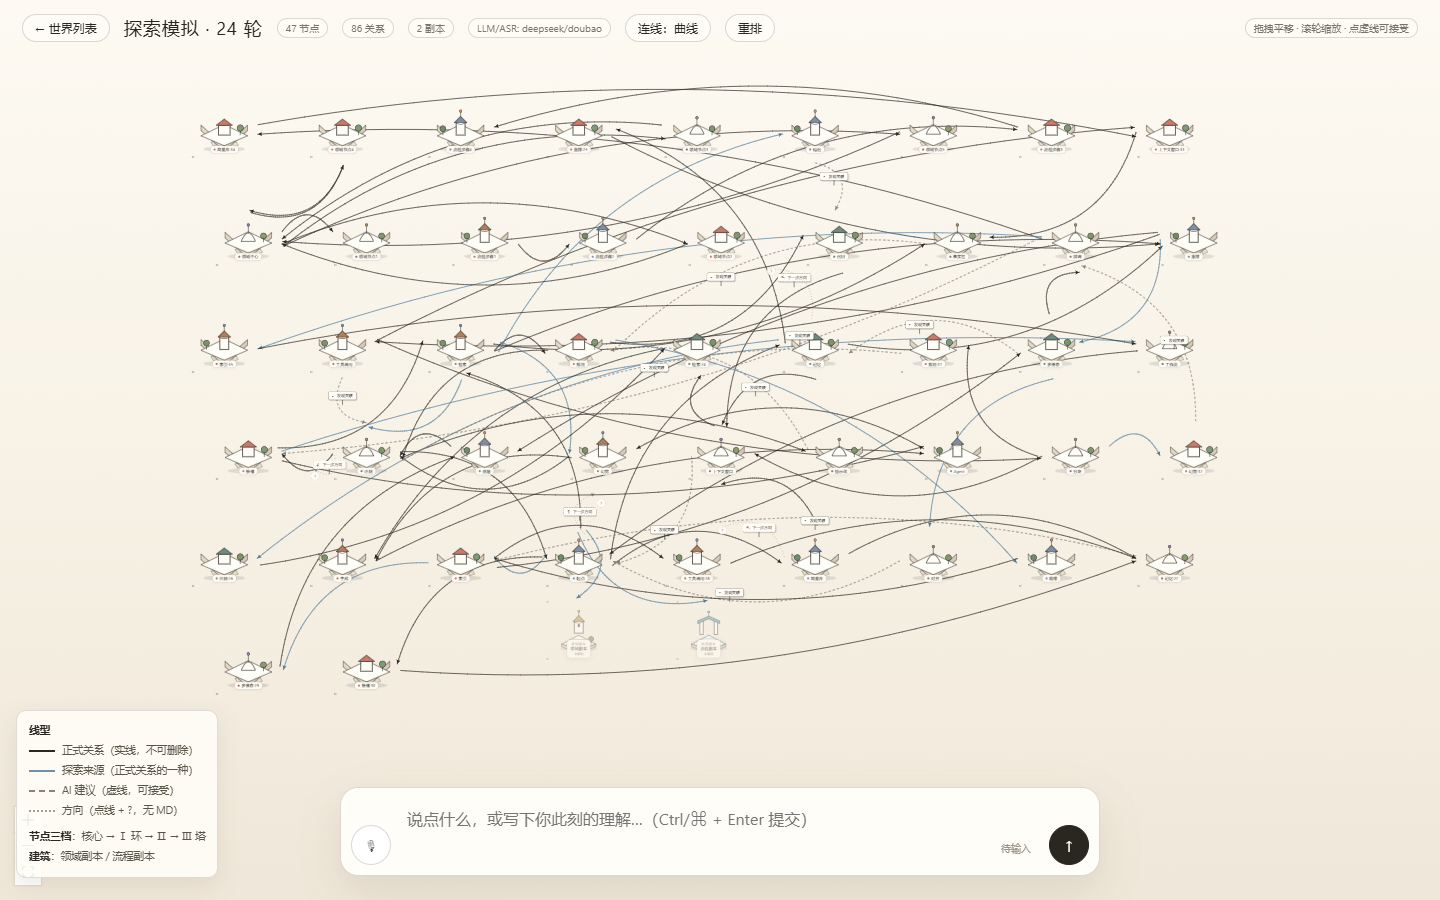
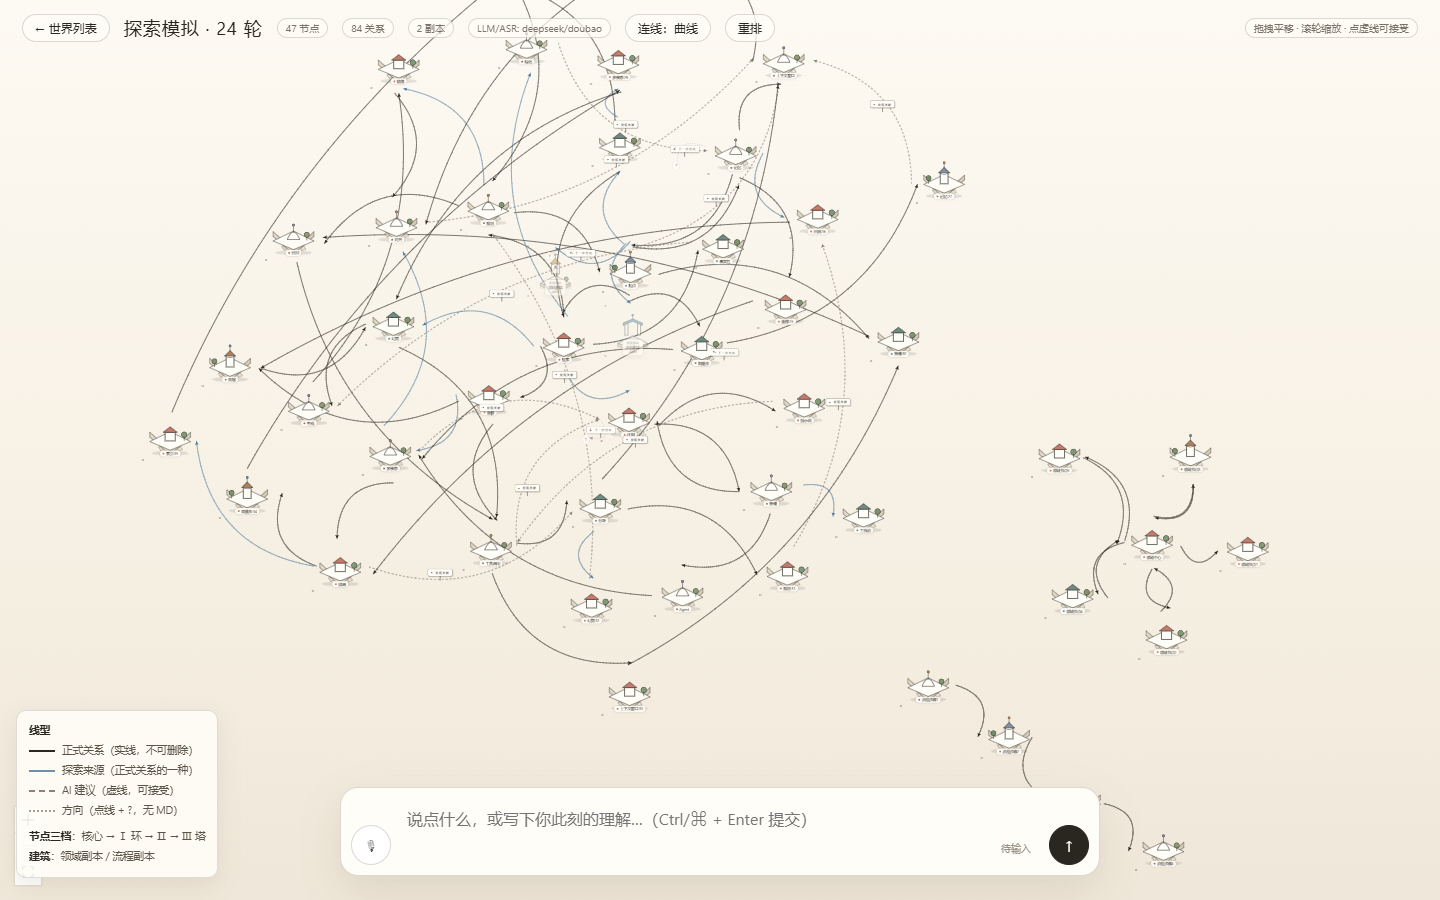
feat(placement): 增量式语义放置，替代全局重排/网格
- 新增 placement.ts：placeAround 在环上生成候选位置，按「避让已有节点 + 朝外生长 + 扇形分散」打分选位；旧节点不动
- 抽取接口改为每个新实体现场算位置（不再按固定角度/半径）
- 探索模拟改为增量生长：跨链接以两节点加权位置为锚；最后只做局部松弛
- 24 轮实测：47 节点 / 84 关系 / 0 重叠 / 2 副本，生长形态而非网格
- 全局 ELK 仍保留给「重排」按钮

diff --git a/server/src/explore.ts b/server/src/explore.ts
@@ -1,0 +1,134 @@
+import {
+  addEdge,
+  addNode,
+  createWorld,
+  getGraph,
+  listBuildings,
+  setNodePosition,
+} from "./db.js";
+import { placeAround, relax, type Placed } from "./placement.js";
+
+const VOCAB = [
+  "检索", "重排", "评测", "记忆", "工具调用", "多模态", "推理", "规划",
+  "幻觉", "上下文窗口", "向量库", "索引", "分块", "微调", "对齐", "蒸馏",
+  "Agent", "工作流", "提示词", "召回", "精排", "生成", "事实性", "延迟",
+];
+
+/**
+ * 模拟一次真实探索：
+ * - 每一轮拿一个"前沿节点"当焦点，生成 1~2 个新节点；
+ * - 新节点位置由 placeAround 现场判断（围绕焦点、朝外、避开已有节点）；
+ * - 新老节点位置都保留，不整体重排，最后只做局部松弛。
+ */
+export async function simulateExplore(
+  rounds: number,
+  detect: (worldId: string, focus: any, nodes: any[]) => void,
+) {
+  const world = createWorld(`探索模拟 · ${rounds} 轮`, "起点");
+  const start = getGraph(world.id).nodes[0];
+  const placed: Placed[] = [{ id: start.id, x: start.x, y: start.y }];
+  const frontier = [start.id];
+  const allIds = [start.id];
+  let vi = 0;
+
+  for (let r = 0; r < rounds; r++) {
+    const focusId = frontier.length ? frontier.shift()! : allIds[Math.floor(Math.random() * allIds.length)];
+    const focus = placed.find((p) => p.id === focusId)!;
+    const k = 1 + (r % 2);
+    for (let j = 0; j < k; j++) {
+      const name = VOCAB[vi % VOCAB.length] + (vi >= VOCAB.length ? `·${vi}` : "");
+      vi++;
+      const pos = placeAround(placed, focus, { preferAngle: (placed.length * 1.7) % (Math.PI * 2) });
+      const node = addNode(world.id, name, pos.x, pos.y);
+      placed.push({ id: node.id, x: pos.x, y: pos.y });
+      allIds.push(node.id);
+      addEdge(world.id, focusId, node.id, j === 0 ? "formal" : "source", "探索延伸");
+      frontier.push(node.id);
+
+      // 发现关联：连到一个已有节点，并把新节点往两者中间拉近
+      if (allIds.length > 4) {
+        const otherId = allIds[Math.floor(Math.random() * allIds.length)];
+        const other = placed.find((p) => p.id === otherId);
+        if (other && otherId !== node.id) {
+          addEdge(world.id, node.id, otherId, r % 3 === 0 ? "suggest" : "formal", "发现关联");
+          const mx = node.x * 0.65 + other.x * 0.35;
+          const my = node.y * 0.65 + other.y * 0.35;
+          const adjusted = placeAround(
+            placed.filter((p) => p.id !== node.id),
+            { id: node.id, x: mx, y: my },
+            { minGap: 220 },
+          );
+          node.x = adjusted.x;
+          node.y = adjusted.y;
+          const mine = placed.find((p) => p.id === node.id)!;
+          mine.x = adjusted.x;
+          mine.y = adjusted.y;
+        }
+      }
+    }
+    frontier.push(focusId);
+    if (r % 6 === 0) addEdge(world.id, focusId, focusId, "direction", "下一步可以探索什么？");
+  }
+
+  // 结构化：一条流程链 + 一个领域簇，验证副本生成
+  const chain: string[] = [];
+  const clusterCenter = placeAround(placed, { id: "cluster", x: 600, y: 900 }, { minGap: 240 });
+  for (let i = 0; i < 4; i++) {
+    const pos = i === 0
+      ? clusterCenter
+      : placeAround(placed, placed.find((p) => p.id === chain[i - 1])!, { minGap: 230 });
+    const n = addNode(world.id, `流程步骤${i + 1}`, pos.x, pos.y);
+    placed.push({ id: n.id, x: pos.x, y: pos.y });
+    chain.push(n.id);
+    if (i > 0) addEdge(world.id, chain[i - 1], n.id, "formal", "步骤");
+  }
+  const clusterAnchor = placeAround(placed, { id: "c2", x: 1200, y: 900 }, { minGap: 240 });
+  const center = addNode(world.id, "领域中心", clusterAnchor.x, clusterAnchor.y);
+  placed.push({ id: center.id, ...clusterAnchor });
+  for (let i = 0; i < 5; i++) {
+    const pos = placeAround(placed, { id: center.id, x: clusterAnchor.x, y: clusterAnchor.y }, { minGap: 225 });
+    const n = addNode(world.id, `领域节点${i + 1}`, pos.x, pos.y);
+    placed.push({ id: n.id, x: pos.x, y: pos.y });
+    addEdge(world.id, center.id, n.id, "formal", "属于");
+    if (i > 0) addEdge(world.id, n.id, center.id, "formal", "关联");
+  }
+
+  // 局部松弛：消除放置阶段的少量挤压，不整体重排
+  const relaxed = relax(placed, 215);
+  for (const p of relaxed) setNodePosition(p.id, p.x, p.y);
+
+  const graph = getGraph(world.id);
+  detect(world.id, graph.nodes[0], graph.nodes);
+
+  const W = 190, H = 170, SP = 1.28;
+  const nodes = getGraph(world.id).nodes;
+  let overlaps = 0;
+  let minGap = Infinity;
+  for (let i = 0; i < nodes.length; i++) {
+    for (let j = i + 1; j < nodes.length; j++) {
+      const dx = Math.abs(nodes[i].x - nodes[j].x) * SP;
+      const dy = Math.abs(nodes[i].y - nodes[j].y) * SP;
+      if (dx < W && dy < H) overlaps++;
+      minGap = Math.min(minGap, Math.max(dx - W, dy - H));
+    }
+  }
+  const buildings = listBuildings(world.id);
+  const extentX = Math.max(...nodes.map((n) => n.x)) - Math.min(...nodes.map((n) => n.x));
+  const extentY = Math.max(...nodes.map((n) => n.y)) - Math.min(...nodes.map((n) => n.y));
+
+  return {
+    ok: true,
+    world,
+    layoutEngine: "incremental",
+    stats: {
+      nodes: nodes.length,
+      edges: getGraph(world.id).edges.length,
+      rounds,
+      overlaps,
+      minGap: Number.isFinite(minGap) ? Math.round(minGap) : null,
+      extent: `${Math.round(extentX)}×${Math.round(extentY)}`,
+      buildings: buildings.length,
+      buildingKinds: buildings.map((b) => b.kind),
+    },
+  };
+}

diff --git a/server/src/placement.ts b/server/src/placement.ts
@@ -1,0 +1,94 @@
+import type { NodeRow } from "./db.js";
+
+export type Placed = { id: string; x: number; y: number };
+
+const GOLDEN = Math.PI * (3 - Math.sqrt(5));
+
+/**
+ * 增量式语义放置：新节点围绕"父节点"落在一条条环上，
+ * 候选位置按「不压已有节点 + 朝外生长 + 扇形分散」打分。
+ *
+ * 和全局重排的区别：老节点位置保持不动，地图是"长出来"的。
+ */
+export function placeAround(
+  existing: Placed[],
+  anchor: Placed,
+  opts: { minGap?: number; preferAngle?: number } = {},
+): { x: number; y: number } {
+  const minGap = opts.minGap ?? 235;
+  if (existing.length === 0) return { x: anchor.x + 300, y: anchor.y };
+
+  // 地图重心 → 用来判断"朝外"方向
+  const cx = existing.reduce((a, p) => a + p.x, 0) / existing.length;
+  const cy = existing.reduce((a, p) => a + p.y, 0) / existing.length;
+  let ox = anchor.x - cx;
+  let oy = anchor.y - cy;
+  const ol = Math.hypot(ox, oy);
+  if (ol < 1) {
+    const a = existing.length * GOLDEN;
+    ox = Math.cos(a);
+    oy = Math.sin(a);
+  } else {
+    ox /= ol;
+    oy /= ol;
+  }
+
+  const prefer = opts.preferAngle ?? 0;
+  let best: { x: number; y: number } | null = null;
+  let bestScore = -Infinity;
+
+  for (const radius of [250, 330, 420, 520, 640, 780]) {
+    for (let k = 0; k < 16; k++) {
+      const angle = prefer + k * (Math.PI / 8) + existing.length * 0.17;
+      const x = anchor.x + Math.cos(angle) * radius;
+      const y = anchor.y + Math.sin(angle) * radius;
+
+      // 到已有节点的最小空隙
+      let clearance = Infinity;
+      for (const p of existing) {
+        const d = Math.hypot(p.x - x, p.y - y);
+        clearance = Math.min(clearance, d - minGap);
+        if (clearance < -200) break;
+      }
+
+      // 朝外生长 + 与父节点方向有一定角度差（形成扇形而不是一条射线）
+      const outward = (Math.cos(angle) * ox + Math.sin(angle) * oy) * 120;
+      const spread = Math.abs(Math.cos(angle - prefer)) * 20;
+      const score = clearance * 3 + outward + spread + Math.random() * 12;
+
+      if (clearance >= 0 && score > bestScore) {
+        bestScore = score;
+        best = { x, y };
+      } else if (!best && score > bestScore) {
+        bestScore = score;
+        best = { x, y };
+      }
+    }
+    if (best && bestScore > 0) break;
+  }
+
+  return best ?? { x: anchor.x + 300, y: anchor.y };
+}
+
+/** 局部松弛：只在新节点附近消掉残留重叠，不整体重排 */
+export function relax(placed: Placed[], minGap = 215): Placed[] {
+  const out = placed.map((p) => ({ ...p }));
+  for (let iter = 0; iter < 12; iter++) {
+    for (let i = 0; i < out.length; i++) {
+      for (let j = i + 1; j < out.length; j++) {
+        const dx = out[j].x - out[i].x;
+        const dy = out[j].y - out[i].y;
+        const d = Math.hypot(dx, dy) || 1;
+        if (d >= minGap) continue;
+        const push = (minGap - d) / 2;
+        const ux = dx / d;
+        const uy = dy / d;
+        out[i].x -= ux * push;
+        out[i].y -= uy * push;
+        out[j].x += ux * push;
+        out[j].y += uy * push;
+      }
+    }
+  }
+  return out;
+}

diff --git a/server/src/index.ts b/server/src/index.ts
@@ -37,6 +37,8 @@ import { deepseekLLM } from "./providers/deepseek.js";
 import { doubaoASR } from "./providers/doubao.js";
 import { mockASR, mockLLM } from "./providers/mock.js";
 import { elkLayout, wfcLayout } from "./layout.js";
+import { placeAround } from "./placement.js";
+import { simulateExplore } from "./explore.js";
 
 seedDemoIfEmpty();
 
@@ -101,22 +103,27 @@ app.post("/api/worlds/:id/extract", async (req, res) => {
 
   const createdNodes: NodeRow[] = [];
   const createdEdges: unknown[] = [];
-  const baseAngle = graph.nodes.length * 0.9;
-  result.entities.forEach((ent, i) => {
+  // 增量放置：每个新实体围绕焦点节点现场算位置（避开已有节点、朝外生长）
+  const placed = graph.nodes.map((n) => ({ id: n.id, x: n.x, y: n.y }));
+  result.entities.forEach((ent) => {
     const name = ent.name.trim();
     if (!name) return;
     if (graph.nodes.some((n) => n.name.toLowerCase() === name.toLowerCase())) return;
-    const angle = baseAngle + i * 0.8;
-    const radius = 280 + i * 70;
+    const pos = placeAround(
+      placed,
+      { id: focus.id, x: focus.x, y: focus.y },
+      { preferAngle: (placed.length * 1.7) % (Math.PI * 2) },
+    );
     const node = addNode(
       world.id,
       name,
-      focus.x + Math.cos(angle) * radius,
-      focus.y + Math.sin(angle) * radius,
+      pos.x,
+      pos.y,
       ent.hint ? `## ${name}\n\n> ${ent.hint}` : "",
     );
     createdNodes.push(node);
     graph.nodes.push(node);
+    placed.push({ id: node.id, x: pos.x, y: pos.y });
   });
 
   const findNode = (name: string) =>
@@ -334,7 +341,14 @@ app.post("/api/dev/world", (req, res) => {
   res.json({ ok: true, world });
 });
 
-/** 探索模拟：按轮次"探索 → 生成节点 → 连线"，再跑布局与副本检测 */
+/** 探索模拟（增量放置版）：新节点围绕焦点现场算位置，不做全局重排 */
+app.post("/api/dev/explore", async (req, res) => {
+  const rounds = Math.max(6, Math.min(60, Number(req.body?.rounds ?? 24)));
+  const result = await simulateExplore(rounds, detectBuildings);
+  res.json(result);
+});
+
+/** 旧版探索模拟（保留占位） */
 app.post("/api/dev/explore", async (req, res) => {
   const rounds = Math.max(6, Math.min(60, Number(req.body?.rounds ?? 24)));
   const world = createWorld(`探索模拟 · ${rounds} 轮`, "起点");
